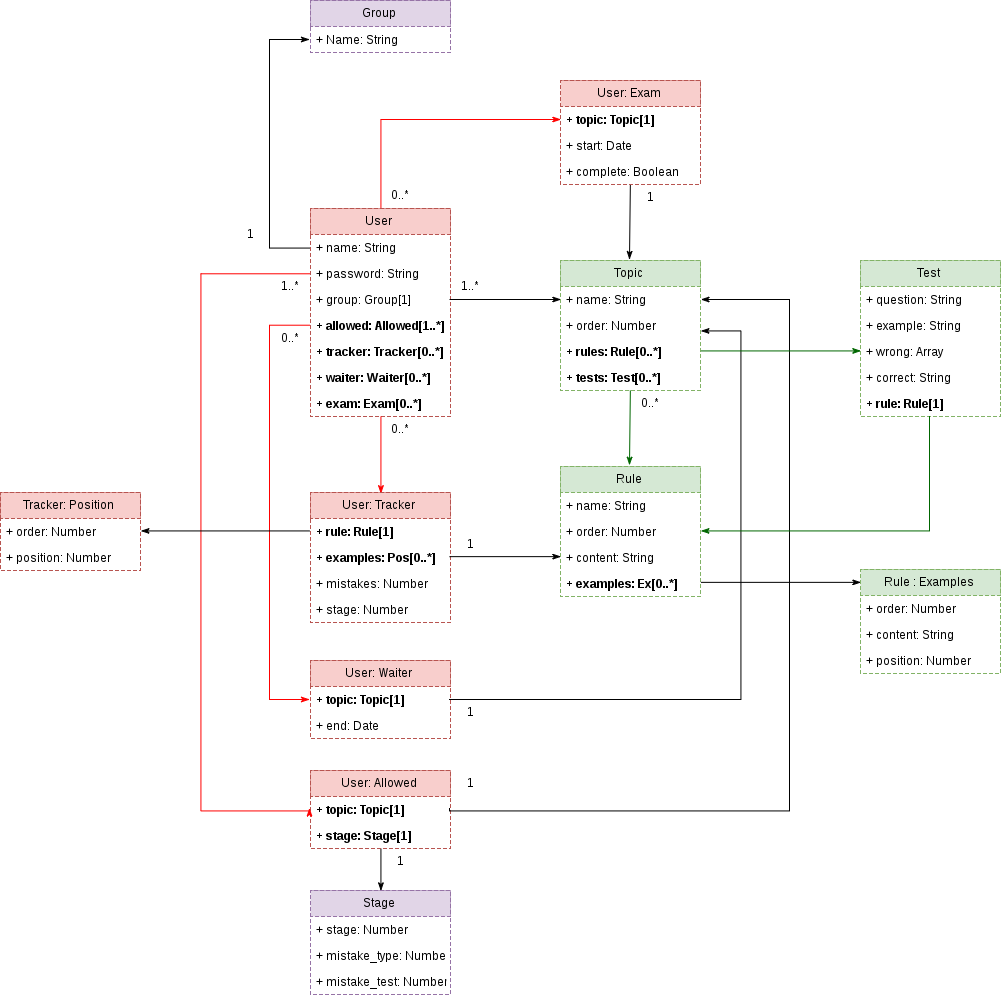
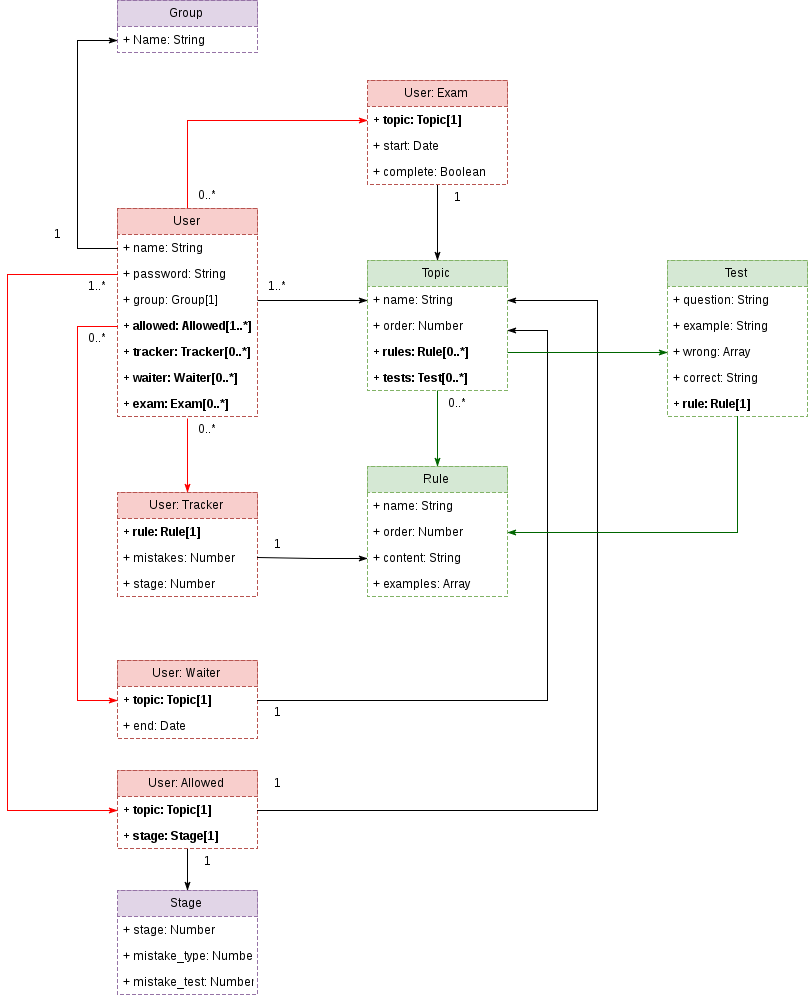
added functional to send statistic #TE-17 Fixed

diff --git a/controllers/rule.js b/controllers/rule.js
@@ -293,3 +293,121 @@ module.exports.get = function(req, res) {
 		});
 	});
 };
+
+// ------------------------------------------------------------------
+
+module.exports.stat = function(req, res) {
+
+	async.parallel({
+
+		rule : function(callback) {
+			// Find rule
+			Topic.findOne({name:req.body.topic}).populate('rule')
+			.exec(function(err, topic) {
+
+				if (err) return callback(err, null);
+
+				let found = false;
+				topic.rule.forEach(function(rule) {
+					if (rule.name == req.body.rule) {
+						found = true;
+						return callback(null, rule);
+					}
+				});
+
+				if (!found) callback('Rule not found!', null);
+			});
+		},
+
+		user: function(callback) {
+
+			User.findById(req.user._id).populate('topic.name')
+			.populate('topic.stage').exec(function(err, user) {
+
+				if (err) return callback(err, null);
+				let allowed = false;
+
+				user.topic.forEach(function(topic_group) {
+					topic_group.name.forEach(function(topic) {
+						
+						// Find allowed topic
+						if (req.body.topic == topic.name) {
+							allowed = true;	
+							
+							// Compare get mistakes between
+							// allowed mistakes
+							if (topic_group.stage.mistake_type
+								>= req.body.mistakes) {
+								
+								return callback(null, {
+									mistakes: req.body.mistakes,
+									stage: topic_group.stage.stage
+								});
+							}
+
+							else {
+								return callback('Many mistakes!', null);
+							}
+						}
+					});
+				});
+
+				if (!allowed) callback('Topic not allowed!', null);
+
+			});
+		}
+
+	}, function(err, result) {
+		
+		if (err) return res.json({error: err });
+
+		let new_track = {
+			rule: result.rule._id,
+			mistake: result.user.mistakes,
+			stage: result.user.stage
+		};
+
+		console.log(new_track);
+
+		async.series([
+
+			function(callback) {
+				
+				// Checking existent tracks
+				User.findById(req.user._id, function(err, user) {
+					user.tracker.forEach(function(track) {
+						
+						if (track.rule == new_track.rule
+							&& track.stage == new_track.stage) {
+
+							return callback(
+								'You passed this rule!', null
+							);
+						}
+					});
+
+					callback(null);
+				});
+			},
+
+			function(callback) {
+				
+				User.findByIdAndUpdate(
+					req.user._id,
+					{$push : {tracker: new_track} },
+					function(err, tracker) {
+						if (err) return callback(err, null);
+						callback(null);
+					}
+				);
+			}
+
+		], function(err, result) {
+			if (err) return res.json({error: err });
+			res.json({
+				status: true
+			});
+		});
+
+	});
+};

diff --git a/routes/users.js b/routes/users.js
@@ -21,5 +21,8 @@ router.post('/get-topic', topic.get);
 router.post('/get-rule', rule.get);
 router.post('/get-test', test.get);
 
+// Send statistic
+router.post('/stat-rule', rule.stat);
+
 // Export module
 module.exports = router;

diff --git a/models/user.js b/models/user.js
@@ -26,7 +26,6 @@ const trackerSchema = new Schema({
 		type: Schema.Types.ObjectId,
 		ref: 'Rule',
 	},
-	time: Number, // seconds
 	mistake: Number,
 	stage: Number
 });

diff --git a/ROUTES.md b/ROUTES.md
@@ -1,5 +1,55 @@
 # Routes
 
+## Authorization
+
+### Sign Up
+
+```http
+POST /signup
+```
+
+![Signup](./readme_fig/signup.png)
+
+*Request*
+
+```json
+{
+  "username" : "Ivan",
+  "password" : "123456Seven"
+}
+```
+
+*Successful Response*
+
+```json
+{
+  "token" : "Esf24#rsaf..."
+}
+```
+
+### Sign In
+
+```http
+POST /signin
+```
+
+*Request*
+
+```json
+{
+  "username" : "UserName",
+  "password" : "123456Seven"
+}
+```
+
+*Successful Response*
+
+```json
+{
+  "token" : "Esf24#rsaf..."
+}
+```
+
 ## Topics management
 
 ### Add topic (for admins)
@@ -229,6 +279,34 @@ POST /get-rule
 }
 ```
 
+### Send statistic
+
+```http
+POST /stat-rule
+```
+
+![Static](./readme_fig/static.png)
+
+*Request*
+
+```json
+{
+  "token" : "Esf24#rsaf...",
+  "topic" : "Topic Name",
+  "name"  : "Rule Name",
+  "mistakes" : 2
+}
+```
+
+*Successful Response*
+
+```json
+{
+  "status": true
+}
+```
+
+
 ## Tests management
 
 ### Add test (for admins)
@@ -378,3 +456,4 @@ POST /get-test
   ]
 }
 ```
+
